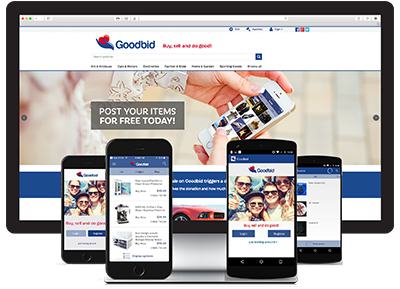
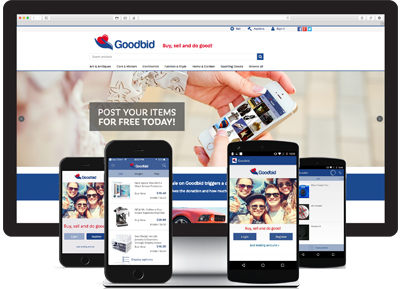
Portfolio update.

diff --git a/css/main.css b/css/main.css
@@ -151,6 +151,11 @@ Buttons Styles
   text-decoration: none;
 }
 
+#facebook_icon:hover {
+    opacity: 0.7;
+    filter: alpha(opacity=100); /* For IE8 and earlier */
+}
+
 /* ==========================================================================
 Layout 
 ========================================================================== */
@@ -483,7 +488,10 @@ Portfolio Style
 #portfolio .portfolio-box:hover .portfolio-box-caption {
   opacity: 1;
 }
-
+.badgebutton:hover, .closeproject:hover {
+    opacity: 0.7;
+    filter: alpha(opacity=100); /* For IE8 and earlier */
+}
     /* ==========================================================================
 Work Process Style
 ========================================================================== */
@@ -608,7 +616,7 @@ Holding Style
 Testimonials Style
 ========================================================================== */
 #testimonials {
-  background-image: url("../img/testimonials/Testimonials2.jpg");
+  background-image: url("../img/testimonials/Testimonials.jpg");
   -moz-background-size: cover;
   -o-background-size: cover;
   -webkit-background-size: cover;

diff --git a/application/views/portfolio.php b/application/views/portfolio.php
@@ -191,7 +191,7 @@ defined('BASEPATH') OR exit('No direct script access allowed');
                                 <img class="img-responsive img-centered" src="<?php echo base_url('img/portfolio/3.jpg'); ?>" alt="3">
                                 <p>Red Rock offers payment, ticketing and information solutions for the public transportation industry. The products are designed to be fast, flexible and secure. Our goal is to make the passengers travel quick and easy so they prefer to travel the same way again. We also strive to have efficient solutions to reduce queue time and stand still time at stops. We can deliver solutions for bus, train, ferries, airplanes, subways and trams.  </p>
                                 <p>All our products are offered as a cloud based solution so implementation time is reduced to a minimum. This removes the need for local software installation and reduces maintenance cost. The solutions are standardized for quick deployment but they can also be customized to meet specific customer demands.</p>
-                                <button type="button" class="btn btn-primary" data-dismiss="modal"><i class="fa fa-times"></i> Close Project</button>
+                                <button type="button" class="btn btn-primary closeproject" data-dismiss="modal"><i class="fa fa-times"></i> Close Project</button>
                             </div>
                         </div>
                     </div>
@@ -219,7 +219,7 @@ defined('BASEPATH') OR exit('No direct script access allowed');
                                 <img class="img-responsive img-centered" src="<?php echo base_url('img/portfolio/2.jpg'); ?>" alt="2">
                                 <p><a href="http://designmodo.com/startup/?u=787">Startup Framework</a> is a website builder for professionals. Startup Framework contains components and complex blocks (PSD+HTML Bootstrap themes and templates) which can easily be integrated into almost any design. All of these components are made in the same style, and can easily be integrated into projects, allowing you to create hundreds of solutions for your future projects.</p>
                                 <p>You can preview Startup Framework <a href="http://designmodo.com/startup/?u=787">here</a>.</p>
-                                <button type="button" class="btn btn-primary" data-dismiss="modal"><i class="fa fa-times"></i> Close Project</button>
+                                <button type="button" class="btn btn-primary closeproject" data-dismiss="modal"><i class="fa fa-times"></i> Close Project</button>
                             </div>
                         </div>
                     </div>
@@ -244,12 +244,25 @@ defined('BASEPATH') OR exit('No direct script access allowed');
                             <div class="modal-body">
                                 <!-- Project Details Go Here -->
                                 <h2>Goodbid</h2>
-                                <p class="item-intro text-muted">Lorem ipsum dolor sit amet consectetur.</p>
+                                <p class="item-intro text-muted">#PHP #Mysql #Jquery #HTML #CSS</p>
                                 <img class="img-responsive img-centered" src="<?php echo base_url('img/portfolio/goodbid600x450.jpg'); ?>" alt="1">
-                                <p>Start Bootstrap's Agency theme is based on Golden, a free PSD website template built by <a href="https://www.behance.net/MathavanJaya">Mathavan Jaya</a>. Golden is a modern and clean one page web template that was made exclusively for Best PSD Freebies. This template has a great portfolio, timeline, and meet your team sections that can be easily modified to fit your needs.</p>
-                                <p>You can download the PSD template in this portfolio sample item at <a href="http://freebiesxpress.com/gallery/golden-free-one-page-web-template/">FreebiesXpress.com</a>.</p>
-                                <button type="button" class="btn btn-primary" data-dismiss="modal"><i class="fa fa-times"></i> Close Project</button>
+                                
+                                <div class="row">
+                                    <div class="col-sm-4 badgebutton">
+                                        <a href="http://goodbid.com/" target="_blank"><img class="img-responsive img-centered" src="<?php echo base_url('img/button/website174x54.png'); ?>"></a>
+                                    </div>
+                                    <div class="col-sm-4 badgebutton">
+                                        <a href="https://itunes.apple.com/us/app/goodbid/id1023371641?ls=1&mt=8" target="_blank"><img class="img-responsive img-centered" src="<?php echo base_url('img/button/appstore174x54.png'); ?>"></a>
+                                    </div>
+                                    <div class="col-sm-4 badgebutton">
+                                        <img class="img-responsive img-centered" src="<?php echo base_url('img/button/googleplay174x54.png'); ?>">
+                                    </div>
+                                </div>
                             </div>
+                            <p>Goodbid is an online marketplace offering you a simple and secure platform for buying and selling, where donations are a natural part of every sale, offering people worldwide a tool that lets them give back. There's always a way people can help organization in need of resources, for every item bought or sold, a percentage of the sale price is donated to a cause. It’s a special community where users can come together to create a culture of generosity.</p>
+                            <p>Goodbid’s mission statement is to create a culture of helping people make giving back a part of their everyday life.</p>
+                            <button type="button" class="btn btn-primary closeproject" data-dismiss="modal"><i class="fa fa-times"></i> Close Project</button>
+                        </div>
                         </div>
                     </div>
                 </div>
@@ -278,7 +291,7 @@ defined('BASEPATH') OR exit('No direct script access allowed');
                                 <img class="img-responsive img-centered" src="<?php echo base_url('img/portfolio/4.jpg'); ?>" alt="4">
                                 <p>Start Bootstrap's Agency theme is based on Golden, a free PSD website template built by <a href="https://www.behance.net/MathavanJaya">Mathavan Jaya</a>. Golden is a modern and clean one page web template that was made exclusively for Best PSD Freebies. This template has a great portfolio, timeline, and meet your team sections that can be easily modified to fit your needs.</p>
                                 <p>You can download the PSD template in this portfolio sample item at <a href="http://freebiesxpress.com/gallery/golden-free-one-page-web-template/">FreebiesXpress.com</a>.</p>
-                                <button type="button" class="btn btn-primary" data-dismiss="modal"><i class="fa fa-times"></i> Close Project</button>
+                                <button type="button" class="btn btn-primary closeproject" data-dismiss="modal"><i class="fa fa-times"></i> Close Project</button>
                             </div>
                         </div>
                     </div>
@@ -304,10 +317,10 @@ defined('BASEPATH') OR exit('No direct script access allowed');
                                 <!-- Project Details Go Here -->
                                 <h2>Project Name</h2>
                                 <p class="item-intro text-muted">Lorem ipsum dolor sit amet consectetur.</p>
-                                <img class="img-responsive img-centered" src="<?php echo base_url('img/portfolio/5.jpg'); ?>" alt="5">
+                                <img class="img-responsive img-centered" src="<?php echo base_url('img/portfolio/catsj600x450.jpg'); ?>" alt="5">
                                 <p>Escape is a free PSD web template built by <a href="https://www.behance.net/MathavanJaya">Mathavan Jaya</a>. Escape is a one page web template that was designed with agencies in mind. This template is ideal for those looking for a simple one page solution to describe your business and offer your services.</p>
                                 <p>You can download the PSD template in this portfolio sample item at <a href="http://freebiesxpress.com/gallery/escape-one-page-psd-web-template/">FreebiesXpress.com</a>.</p>
-                                <button type="button" class="btn btn-primary" data-dismiss="modal"><i class="fa fa-times"></i> Close Project</button>
+                                <button type="button" class="btn btn-primary closeproject" data-dismiss="modal"><i class="fa fa-times"></i> Close Project</button>
                             </div>
                         </div>
                     </div>
@@ -336,7 +349,7 @@ defined('BASEPATH') OR exit('No direct script access allowed');
                                 <img class="img-responsive img-centered" src="<?php echo base_url('img/portfolio/6.jpg'); ?>" alt="6">
                                 <p>Dreams is a free PSD web template built by <a href="https://www.behance.net/MathavanJaya">Mathavan Jaya</a>. Dreams is a modern one page web template designed for almost any purpose. It’s a beautiful template that’s designed with the Bootstrap framework in mind.</p>
                                 <p>You can download the PSD template in this portfolio sample item at <a href="http://freebiesxpress.com/gallery/dreams-free-one-page-web-template/">FreebiesXpress.com</a>.</p>
-                                <button type="button" class="btn btn-primary" data-dismiss="modal"><i class="fa fa-times"></i> Close Project</button>
+                                <button type="button" class="btn btn-primary closeproject" data-dismiss="modal"><i class="fa fa-times"></i> Close Project</button>
                             </div>
                         </div>
                     </div>

diff --git a/application/views/hero_image.php b/application/views/hero_image.php
@@ -2,7 +2,7 @@
 defined('BASEPATH') OR exit('No direct script access allowed');
 ?>
 <div id="owl-hero" class="owl-carousel owl-theme">
-                <div class="item" style="background-image: url(<?php echo base_url('img/sliders/Slide.jpg'); ?>)">
+                <div class="item" style="background-image: url(<?php echo base_url('img/sliders/Slide1.jpg'); ?>)">
                     <div class="caption">
                         <h1>We Are <span>Red Rock Tech</span></h1>
                         <a class="btn btn-transparent" id="popup-video1" href="video/redrock_video.mp4">Watch Our Video</a>
